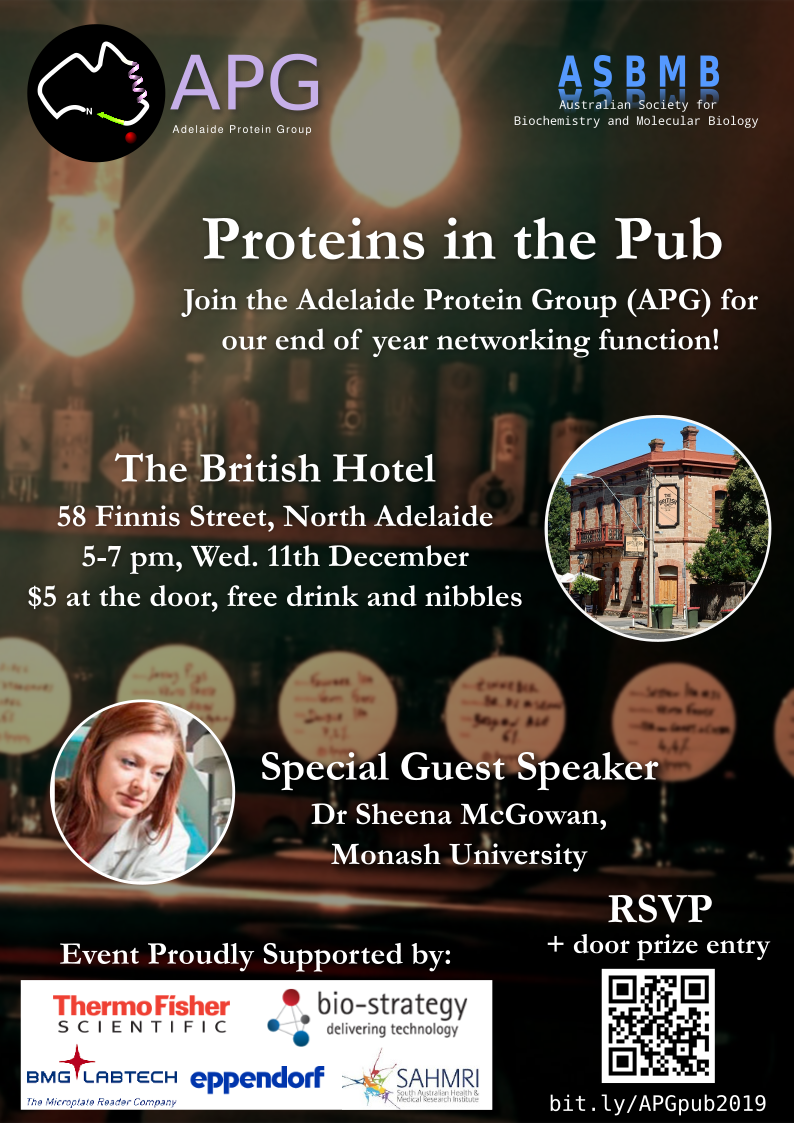
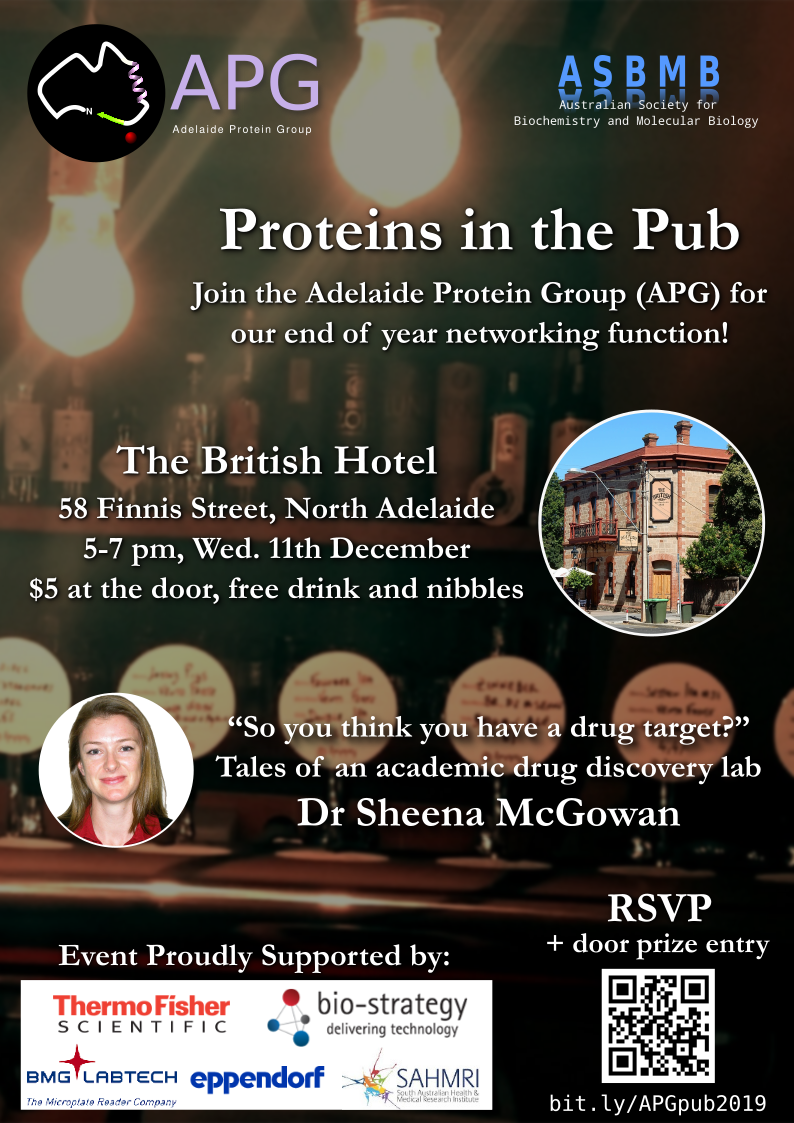
pitp update

diff --git a/_posts/2019-11-08-pitp.md b/_posts/2019-11-08-pitp.md
@@ -4,6 +4,19 @@ title: "Proteins in the Pub 2019"
 categories: events
 ---
 
+<details><summary>Guest talk by Dr Sheena McGowan:</summary>
+<p>
+<br>
+Sheena McGowan is formally trained as a microbiologist, however, during her PhD she developed what would become a long-standing interest in structure and function of proteins. 
+She completed a post-doctoral position with Prof James Whisstock where she was trained in protein crystallography and biochemistry. 
+She used the award of an ARC Future Fellowship to establish her own laboratory. 
+<br>
+<br>
+The McGowan laboratory is a structural microbiology laboratory that focuses on therapeutically important microbial proteins and characterises how these proteins function on an atomic level. 
+They investigate whether interruption of this function has therapeutic potential and then use this structural information to discover lead molecules and guide drug development.
+<br>
+</p>
+</details>
 
 [RSVP via Eventbrite](https://www.eventbrite.com.au/e/proteins-in-the-pub-tickets-80616436933) for your chance to win the door prize!
 
